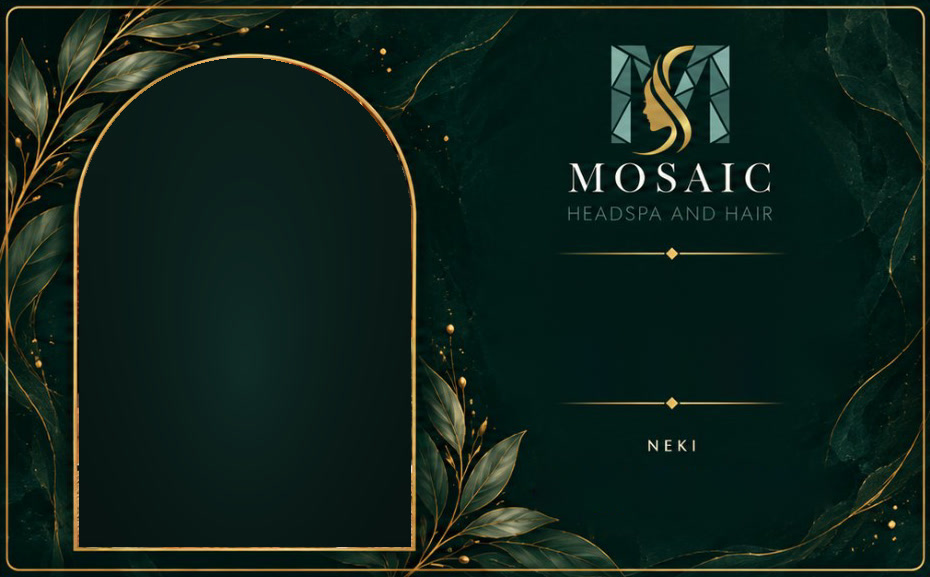
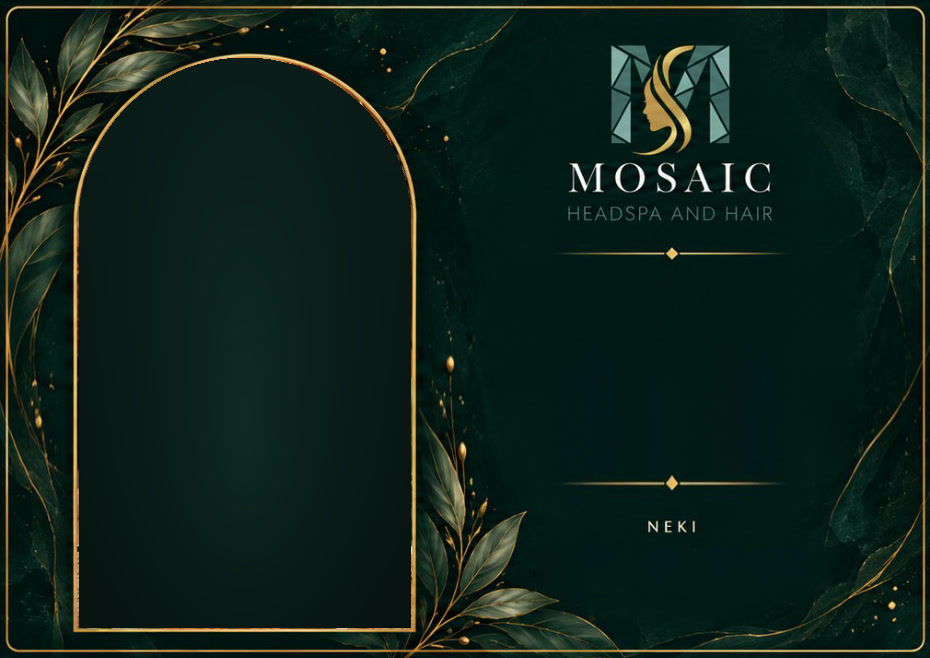
Ajandek: mind az uj harom kartya A5 keparanyu (uj grafika nelkul), kezelesenkent sajat felugro szoveg az eles arlistabol (kep + elemek), gombok a blokkokban, videoindito szoveg
- Smaragd 930x658, Szalag 939x664, Virag 934x660: csak az ures savok nyulnak, a logo / gyuru / feliratok nem torzulnak; a szovegdobozok az uj geometriara
- a Virag hatoldalan a hatterkepen levo ERTEKE felirat nem rajzolodik ujra
- felugro: egyeni = Relax, 4 Kezes, Paros - az eles arlista kartyai; a kezeles alapkepe; profi masszor
- gombok: Szemelyre szabott ajandekkartya / 2 perc... / Imadjak a nok blokkokban kozepen
- "Inditsd el a videot a kezelesrol!"
- tesztek (88), AJANDEK.md

diff --git a/assets/js/ajandek-adat.js b/assets/js/ajandek-adat.js
@@ -36,15 +36,13 @@
       pontosan: { ido: '50 perc Head Spa + 30 perc hajszárítás', fo: '1 vendég', kezelo: 'Tapasztalt, profi masszőr' },
       kezeles: {
         leiras: ['Személyre szabott hajápolási szeánsz mélyrelaxáló masszázs elemekkel: 50 perc Head Spa, utána 30 perc profi hajszárítás.'],
-        // a kezelés menete: az éles ajándékkártya-oldalak "Mit tartalmaz a 80 perces (50+30) kényeztetés?" listája (a kártyák "Hogyan épül fel a kezelés?" ablaka)
-        menet: [
-          ['Fejbőrkamerás diagnózis', 'Ezzel kezdünk, hogy a fejbőrtípusodhoz illő kezelést kapd.'],
-          ['Személyre szabott pakolás', 'Vegán OXYGENI pakolás a haj egészségéért.'],
-          ['Mélytisztító hajmosás', 'A híres körvízsugaras terápiával, az eredeti Head Spa arany zuhanyívvel.'],
-          ['Intenzív masszázs', 'Fej-, arc-, dekoltázs- és kézmasszázs profi masszőrökkel.'],
-          ['Gőzölés', 'Teljes ellazulás.'],
-          ['Hajszárítás (30 perc)', 'Befejezésként profi fodrászati beszárítás.']
-        ],
+        // a "Hogyan épül fel a kezelés?" felugró tartalma: az éles oldal árlistájának kezelés-kártyája (az egyéni = a "Relax" kezelés); a [szöveg, true] kiemelt elem
+        menet: {
+          nev: '50 perces MOSAIC "Relax" Head Spa kezelés',
+          bevezeto: 'Masszázs fókuszú kezelés, ami tartalmaz hajápolási elemeket is.',
+          elemek: [['Mélytisztító hajmosás'], ['Körvízsugaras terápia'], ['OXYGENI hajpakolás'], ['Fejmasszázs kézzel és eszközökkel'], ['Arctisztítás'], ['Arc tonizálás'], ['Arcmasszázs kézzel és választott eszközzel'], ['Nyak-, és vállmasszázs'], ['Dekoltázs masszázs'], ['Gőz terápia'], ['Fény terápia']],
+          utana: '+ 30 perc kímélő hajszárítás', ido: '50+30 perc'
+        },
         // a tulajdonos Meta-fiókjából ("Headspa szeptember 20_ natív kezelés.mp4"): a beégetett „szeptemberi akció" sáv és a záró kártya levágva (3:4, 0:55)
         video: { src: '/assets/video/ajandek-kezeles-egyeni.mp4?v=2', poster: '/assets/img/ajandek/kezeles-egyeni.jpg?v=2', ido: '0:55' }
       },
@@ -70,13 +68,12 @@
       pontosan: { ido: '50 perc 4 kezes Head Spa + 30 perc hajszárítás', fo: '1 vendég', kezelo: 'Két profi masszőr egyszerre, a végén profi fodrász szárít' },
       kezeles: {
         leiras: ['A MOSAIC saját találmánya: két profi masszőr dolgozik egyszerre, a végén egy profi fodrász szárít, vagyis hárman kényeztetnek 50+30 percen át.'],
-        menet: [
-          ['Személyre szabott pakolás', 'A fej- és arcbőrtípusodnak megfelelő, vegán és 100%-ban természetes OXYGENI pakolás.'],
-          ['Mélytisztító hajmosás', 'Körvízsugaras terápiával, az arany zuhanyívvel.'],
-          ['8 féle masszázs, két profi masszőrrel egyszerre', 'Fej-, arc-, nyak-, dekoltázs-, kar-, kéz-, láb- és vállmasszázs.'],
-          ['Gőzölés', 'Teljes ellazulás.'],
-          ['Hajszárítás (30 perc)', 'Plusz 30 perc: hajszárítás profi minőségben.']
-        ],
+        menet: {
+          nev: '50 perces MOSAIC "4 Kezes" Head Spa kezelés',
+          bevezeto: '',
+          elemek: [['Exkluzív, új szolgáltatás 2026 januártól'], ['A Headspa kezelések csúcsa'], ['2 profi masszőr kényeztet', true], ['8 féle masszázs', true], ['Profi, szalon szintű beszárítás'], ['Csak ajándékkártya készült']],
+          utana: '+ 30 perc kímélő hajszárítás', ido: '50+30 perc'
+        },
         // a Meta-fiók 4 kezes videóihoz nincs letölthető fájl; ez a "Hook1.MP4" (Ajándékkártya mappa) teljes hossza (39,5 s), feliratokkal; a ?v=2 a gyorsítótárat töri (a régi 7,8 s-os változat ott ragadt)
         video: { src: '/assets/video/ajandek-kezeles-4kezes.mp4?v=2', poster: '/assets/img/ajandek/kezeles-4kezes.jpg?v=2', ido: '0:40' }
       },
@@ -101,14 +98,12 @@
       pontosan: { ido: '50 perc Head Spa + 30 perc hajszárítás fejenként', fo: '2 vendég, egymás mellett', kezelo: 'Két profi masszőr, egyszerre' },
       kezeles: {
         leiras: ['Ketten fekszetek egymás mellé egy privát, csendes kezelőszobában, két profi masszőr kényeztet titeket egyszerre: közös élmény barátnővel, anyukával vagy a párral.'],
-        menet: [
-          ['Fejbőrkamerás diagnózis', 'Mindkettőtöknél ezzel kezdünk.'],
-          ['Személyre szabott pakolás', 'Vegán OXYGENI pakolás a haj egészségéért, egyénileg.'],
-          ['Mélytisztító hajmosás', 'A híres körvízsugaras terápiával.'],
-          ['Intenzív masszázs', 'Fej-, arc-, dekoltázs- és kézmasszázs profi masszőrökkel, egymás mellett.'],
-          ['Gőzölés', 'Teljes ellazulás.'],
-          ['Hajszárítás (30 perc)', 'Befejezésként profi fodrászati beszárítás fejenként.']
-        ],
+        menet: {
+          nev: '50 perces MOSAIC Páros Head Spa kezelés',
+          bevezeto: '',
+          elemek: [['Mélytisztító hajmosás'], ['Körvízsugaras terápia'], ['OXYGENI hajpakolás fejmasszázzsal'], ['Arctisztítás'], ['Arc radírozás', true], ['Arc tonizálás'], ['Arcmasszázs kézzel és választott eszközzel'], ['Méregtelenítő arcpakolás', true], ['Nyak-, és vállmasszázs'], ['Dekoltázs masszázs'], ['Gőz terápia'], ['Pezsgő alkoholos/alkohol mentes', true]],
+          utana: '+ 30 perc kímélő hajszárítás', ido: '50+30 perc'
+        },
         // a Meta-fiókból ("Szept páros HEADSPA 20_.mp4"): a beégetett „szeptemberi akció" sáv és a záró (akciós) kártya levágva (3:4, 0:29)
         video: { src: '/assets/video/ajandek-kezeles-paros.mp4?v=2', poster: '/assets/img/ajandek/kezeles-paros.jpg?v=2', ido: '0:29' }
       },

diff --git a/assets/js/ajandek-kartya.js b/assets/js/ajandek-kartya.js
@@ -16,7 +16,7 @@
 //     idezet: {x,y,w,h}, nevHely: {x,y,w,h} }
 // A fotohelyre kerulo kep a hatter FOLE kerul (a kulcs a keret: alak = iv | teglalap | kor | polaroid).
 //
-// KEPES dizajn (a tulajdonos altal feltoltott vegleges terv): a dizajnnak sajat koordinata-tere (w x h px) es ket HATTERKEPE van
+// KEPES dizajn (a tulajdonos altal feltoltott vegleges terv; MINDEN dizajn A5 fekvo, 210 x 148,5 mm = 1,414 : 1 - a hatterek a logot, a gyuruket es a feliratokat erintetlenul hagyo, csak az ures savokat nyujto atmeretezessel keszultek): a dizajnnak sajat koordinata-tere (w x h px) es ket HATTERKEPE van
 // (szovegmentes elolap + hatlap, a mintaszoveg es a mintafoto kiszedve). Az elolapon a fotohely (iv) a hatter FOLE kerul, az idezet es a
 // nev a dizajn "biztonsagos teruleten" belul marad (a levelek / a keret / a logo ele soha nem logik): a betumeret a szoveg hosszatol
 // fugg (lepcsok), a doboz overflow: hidden. A hatoldal szovegei (termek, ertek, kod, ervenyesseg) a hatterkep kiuresitett helyeire kerulnek.
@@ -45,36 +45,36 @@
   var TEMAK = [
     // Smaragd: a tulajdonos elso vegleges terve (930 x 577 px-es hatterkepek; a szovegek / a fotohely a kiuresitett helyeken)
     {
-      id: 'smaragd', nev: 'Smaragd', w: 930, h: 577,
+      id: 'smaragd', nev: 'Smaragd', w: 930, h: 658,
       hatter: { elol: '/assets/img/ajandek/kartya-smaragd-elol.jpg', hat: '/assets/img/ajandek/kartya-smaragd-hat.jpg' },
-      kep: { x: 81.5, y: 60.5, w: 326, h: 483, alak: 'iv' },
-      idezet: { x: 514, y: 266, w: 316, h: 123, lepcso: [[28, 33], [45, 30], [64, 23], [96, 20.5], [128, 18], [160, 16]] },
-      nevHely: { x: 532, y: 471, w: 280, h: 36, lepcso: [[16, 27], [24, 23], [32, 17.5], [40, 14]] },
-      hat: { termek: { x: 243, y: 143, w: 480, h: 84 }, ertek: { x: 285, y: 270, w: 400, h: 48 }, kod: { x: 264, y: 375, w: 440, h: 32 }, ervenyes: { x: 243, y: 452, w: 480, h: 30 } }
+      kep: { x: 81.5, y: 60.5, w: 326, h: 564, alak: 'iv' },
+      idezet: { x: 514, y: 266, w: 316, h: 196.6, lepcso: idezetLepcso(316, 196.6, 33) },
+      nevHely: { x: 532, y: 552, w: 280, h: 36, lepcso: nevLepcso(280, 36, 27) },
+      hat: { termek: { x: 243, y: 163.1, w: 480, h: 95.8 }, ertek: { x: 285, y: 307.9, w: 400, h: 54.7 }, kod: { x: 264, y: 427.6, w: 440, h: 36.5 }, ervenyes: { x: 243, y: 515.5, w: 480, h: 34.2 } }
     },
     // Szalag: pezsgőszínű, rózsaarany szalagokkal, kör alakú fotóablakkal (a tulajdonos 2. terve; 844 x 664 px-es háttérképek)
     {
-      id: 'szalag', nev: 'Szalag', w: 844, h: 664,
+      id: 'szalag', nev: 'Szalag', w: 939, h: 664,
       hatter: { elol: '/assets/img/ajandek/kartya-szalag-elol.jpg', hat: '/assets/img/ajandek/kartya-szalag-hat.jpg' },
       kep: { x: 42.2, y: 175.3, w: 322, h: 322, alak: 'kor', keret: false },
-      idezet: { x: 405, y: 285, w: 375, h: 145, lepcso: idezetLepcso(375, 145, 36) },
-      nevHely: { x: 415, y: 528, w: 320, h: 42, lepcso: nevLepcso(320, 42, 30) },
+      idezet: { x: 410.7, y: 285, w: 459.8, h: 145, lepcso: idezetLepcso(459.8, 145, 36) },
+      nevHely: { x: 422.9, y: 528, w: 392.4, h: 42, lepcso: nevLepcso(392.4, 42, 30) },
       szin: { idezet: '#442f16', nev: '#3a260d', termek: '#382711', ertek: '#694514', kod: '#3b260d', erv: '#4c3a20' },
       hat: {
-        termek: { x: 195, y: 262, w: 472, h: 90 }, ertek: { x: 402, y: 380, w: 200, h: 46, cimke: false }, kod: { x: 326, y: 480, w: 206, h: 34 }, ervenyes: { x: 270, y: 546, w: 322, h: 32 },
+        termek: { x: 216.9, y: 262, w: 525.1, h: 90 }, ertek: { x: 447.2, y: 380, w: 222.5, h: 46, cimke: false }, kod: { x: 362.7, y: 480, w: 229.2, h: 34 }, ervenyes: { x: 300.4, y: 546, w: 358.2, h: 32 },
         meret: { termek: [[25, 26], [30, 23], [200, 20]], ertek: 36, kod: [[10, 24], [18, 19], [26, 15], [60, 11]], erv: 19 }
       }
     },
     // Virág: rózsaszín, cseresznyevirágos, lekerekített téglalap fotóablakkal (a tulajdonos 3. terve; 934 x 592 px-es háttérképek)
     {
-      id: 'virag', nev: 'Virág', w: 934, h: 592,
+      id: 'virag', nev: 'Virág', w: 934, h: 660,
       hatter: { elol: '/assets/img/ajandek/kartya-virag-elol.jpg', hat: '/assets/img/ajandek/kartya-virag-hat.jpg' },
-      kep: { x: 75, y: 79, w: 296, h: 435, alak: 'sarok', sugar: 12, keret: false },
-      idezet: { x: 440, y: 318, w: 375, h: 112, lepcso: idezetLepcso(375, 112, 28) },
-      nevHely: { x: 450, y: 478, w: 355, h: 40, lepcso: nevLepcso(355, 40, 30) },
+      kep: { x: 75, y: 79, w: 296, h: 503, alak: 'sarok', sugar: 12, keret: false },
+      idezet: { x: 440, y: 321.5, w: 375, h: 175.6, lepcso: idezetLepcso(375, 175.6, 30) },
+      nevHely: { x: 450, y: 546, w: 355, h: 40, lepcso: nevLepcso(355, 40, 30) },
       szin: { idezet: '#9b6166', nev: '#96555c', termek: '#8f4c54', ertek: '#956a38', kod: '#914c53', erv: '#925c61' },
       hat: {
-        termek: { x: 200, y: 108, w: 552, h: 84 }, ertek: { x: 422, y: 255, w: 268, h: 52, cimke: false }, kod: { x: 349, y: 372, w: 262, h: 34 }, ervenyes: { x: 300, y: 462, w: 348, h: 32 },
+        termek: { x: 200, y: 120.4, w: 552, h: 93.6 }, ertek: { x: 422, y: 284.3, w: 330, h: 58, cimke: false }, kod: { x: 349, y: 414.7, w: 262, h: 37.9 }, ervenyes: { x: 300, y: 515.1, w: 348, h: 35.7 },
         meret: { termek: [[25, 28], [30, 25.5], [200, 22]], ertek: 50, kod: [[12, 30], [18, 24], [26, 18], [60, 13]], erv: 21 }
       }
     },

diff --git a/assets/css/ajandek.css b/assets/css/ajandek.css
@@ -1062,19 +1062,22 @@ body.ah { margin: 0; background: var(--ah-ivory); color: var(--ah-szoveg); font:
 .ah-kez-link .ah-ikon { width: 16px; height: 16px; flex: none; color: #c6a346; }
 .ah-kez-link .ah-ikon:last-child { width: 13px; height: 13px; }
 @media (min-width: 900px) and (max-width: 1279px) { .ah-lepesek { grid-template-columns: minmax(0, 1fr) minmax(380px, min(44%, 420px)); } }
-.ah-kez-ablak { width: min(560px, calc(100vw - 32px)); max-height: calc(100vh - 40px); margin: auto; padding: 24px 26px 22px; border: 0; border-radius: 18px; background: #fffdfa; color: var(--ah-szoveg, #243436); box-shadow: 0 24px 60px rgba(12, 24, 23, .35); overflow: auto; }
+.ah-kez-ablak { width: min(620px, calc(100vw - 32px)); max-height: calc(100vh - 40px); margin: auto; padding: 24px 26px 22px; border: 0; border-radius: 18px; background: #fffdfa; color: var(--ah-szoveg, #243436); box-shadow: 0 24px 60px rgba(12, 24, 23, .35); overflow: auto; }
 .ah-kez-ablak:not([open]) { display: none; }
 .ah-kez-ablak::backdrop { background: rgba(12, 24, 23, .55); }
 .ah-kez-ablak-fej { display: flex; align-items: flex-start; justify-content: space-between; gap: 14px; }
-.ah-kez-ablak-fej h3 { font-size: 26px; line-height: 1.15; }
+.ah-kez-ablak-fej h3 { font-size: 22px; line-height: 1.2; }
 .ah-kez-ablak-bezar { flex: none; width: 36px; height: 36px; border: 1px solid var(--ah-vonal); border-radius: 50%; background: #fff; color: var(--ah-petrol); font-size: 22px; line-height: 1; cursor: pointer; display: grid; place-items: center; padding: 0; }
 .ah-kez-ablak-bezar:hover { border-color: var(--ah-arany); }
-.ah-kez-ablak-osszegzes { margin: 6px 0 16px; font-size: 14.5px; color: var(--ah-halk); }
-.ah-kez-lepesek { list-style: none; margin: 0; padding: 0; display: grid; gap: 14px; counter-reset: kez; }
-.ah-kez-lepesek li { display: grid; grid-template-columns: 30px minmax(0, 1fr); gap: 14px; align-items: start; }
-.ah-kez-szam { width: 30px; height: 30px; border-radius: 50%; background: var(--ah-arany); color: #fff; display: grid; place-items: center; font-family: var(--ah-test); font-weight: 500; font-variant-numeric: lining-nums; font-size: 14px; line-height: 1; }
-.ah-kez-lepesek strong { display: block; font-family: var(--ah-cim); font-weight: 500; font-size: 18px; line-height: 1.2; color: var(--ah-petrol); }
-.ah-kez-lepesek li div span { display: block; margin-top: 2px; font-size: 14.5px; line-height: 1.45; color: #3f4f50; }
+.ah-kez-kep { display: block; width: 100%; height: 170px; object-fit: cover; border-radius: 12px; margin: 14px 0 14px; background: #e6dfd1; }
+.ah-kez-bevezeto { margin: 0 0 12px; font-weight: 500; font-size: 15px; line-height: 1.45; color: var(--ah-petrol); }
+.ah-kez-elemek { list-style: none; margin: 0; padding: 0; display: grid; grid-template-columns: repeat(2, minmax(0, 1fr)); gap: 8px 22px; }
+.ah-kez-elemek li { display: flex; align-items: flex-start; gap: 9px; font-size: 14.5px; line-height: 1.4; color: #3f4f50; }
+.ah-kez-elemek .ah-ikon { width: 16px; height: 16px; flex: none; margin-top: 2px; color: #c6a346; }
+.ah-kez-elemek .ah-kiemelt span { font-weight: 600; color: var(--ah-petrol); }
+.ah-kez-utana { margin: 16px 0 0; font-size: 14.5px; color: #3f4f50; }
+.ah-kez-ido { margin: 2px 0 0; font-size: 13.5px; color: var(--ah-halk); }
+@media (max-width: 559px) { .ah-kez-elemek { grid-template-columns: minmax(0, 1fr); } .ah-kez-kep { height: 140px; } }
 .ah-kez-ablak-lab { margin-top: 20px; display: flex; justify-content: center; }
 .ah-kez-ablak-lab .ah-gomb { min-width: 220px; }
 @media (max-width: 479px) { .ah-kez-ablak { padding: 20px 18px 18px; } .ah-kez-ablak-fej h3 { font-size: 22px; } }

diff --git a/foglalas/ajandek.html b/foglalas/ajandek.html
@@ -92,7 +92,7 @@
       </section>
 
       <section class="ah-lepes" aria-labelledby="ah-l2-cim">
-        <header class="ah-lepes-fej"><span class="ah-lepes-szam">2</span><div><h3 id="ah-l2-cim">Nézd meg, hogyan történik</h3><p>Les bele videón, milyen!</p></div></header>
+        <header class="ah-lepes-fej"><span class="ah-lepes-szam">2</span><div><h3 id="ah-l2-cim">Nézd meg, hogyan történik</h3><p>Indíts el a videót a kezelésről!</p></div></header>
         <div class="ah-video-doboz" id="ah-kiv-media"></div>
       </section>
 
@@ -157,6 +157,7 @@
         </ul>
         <button type="button" class="ah-kar-nyil ah-kar-kovetkezo" data-irany="1" aria-label="Következő videók"><span aria-hidden="true">›</span></button>
       </div>
+      <p class="ah-pontosan-cta"><a class="ah-gomb ah-gomb-fo" href="#ah-finder" data-gorgess="ah-finder"><span>Én is ilyen élményt ajándékozok</span><span class="ah-ikon" data-ikon="arrow" aria-hidden="true"></span></a></p>
     </div>
   </section>
 
@@ -224,6 +225,9 @@
         </ul>
       </div>
     </div>
+  <div class="ah-tartalom">
+      <p class="ah-pontosan-cta"><a class="ah-gomb ah-gomb-fo" href="#ah-finder" data-gorgess="ah-finder"><span>Összeállítom a saját kártyámat</span><span class="ah-ikon" data-ikon="arrow" aria-hidden="true"></span></a></p>
+    </div>
   </section>
 
   <!-- Miert MOSAIC + hol talalsz minket + galeria (lapozhato, nagyithato) -->
@@ -280,6 +284,7 @@
         <li><span class="ah-hogyan-ikon"><span class="ah-ikon" data-ikon="mail" aria-hidden="true"></span><b>4</b></span><strong>Átadod</strong><span>Kinyomtatod, továbbküldöd vagy a szalonban átveszed.</span></li>
         <li><span class="ah-hogyan-ikon"><span class="ah-ikon" data-ikon="calendar" aria-hidden="true"></span><b>5</b></span><strong>Ő beváltja</strong><span>Kuponkóddal időpontot foglal, 6 hónapon belül.</span></li>
       </ol>
+      <p class="ah-pontosan-cta"><a class="ah-gomb ah-gomb-fo" href="#ah-finder" data-gorgess="ah-finder"><span>Kezdem az ajándékozást</span><span class="ah-ikon" data-ikon="arrow" aria-hidden="true"></span></a></p>
     </div>
   </section>
 
@@ -340,8 +345,11 @@
     <h3 id="ah-kez-ablak-cim"></h3>
     <button type="button" class="ah-kez-ablak-bezar" id="ah-kez-bezar" aria-label="Bezárás"><span aria-hidden="true">×</span></button>
   </div>
-  <p class="ah-kez-ablak-osszegzes" id="ah-kez-osszegzes"></p>
-  <ol class="ah-kez-lepesek" id="ah-kez-lepesek"></ol>
+  <img class="ah-kez-kep" id="ah-kez-kep" alt="" width="1100" height="660" hidden>
+  <p class="ah-kez-bevezeto" id="ah-kez-bevezeto" hidden></p>
+  <ul class="ah-kez-elemek" id="ah-kez-elemek"></ul>
+  <p class="ah-kez-utana" id="ah-kez-utana"></p>
+  <p class="ah-kez-ido" id="ah-kez-ido"></p>
   <div class="ah-kez-ablak-lab"><button type="button" class="ah-gomb ah-gomb-fo" id="ah-kez-valaszt">Ezt választom</button></div>
 </dialog>
 <dialog class="ah-video-ablak" id="ah-video-ablak" aria-label="Vendég-videó">

diff --git a/assets/js/ajandek.js b/assets/js/ajandek.js
@@ -518,15 +518,19 @@
   var kezTermek = null, kezFokusz = null;
   function kezAblakNyit(id, forras) {
     var t = termek(id), abl = $('ah-kez-ablak');
-    if (!t || !abl) return;
+    var m = t && t.kezeles && t.kezeles.menet;
+    if (!t || !abl || !m) return;
     kezTermek = id; kezFokusz = forras || null;
-    $('ah-kez-ablak-cim').textContent = t.nev;
-    var p = t.pontosan || {};
-    $('ah-kez-osszegzes').textContent = [t.osszefoglalo, p.kezelo].filter(Boolean).join(' · ');
-    var lista = uresit($('ah-kez-lepesek'));
-    ((t.kezeles && t.kezeles.menet) || []).forEach(function (m, i) {
-      lista.appendChild(h('li', null, h('span', { class: 'ah-kez-szam', text: String(i + 1) }), h('div', null, h('strong', { text: m[0] }), h('span', { text: m[1] }))));
-    });
+    $('ah-kez-ablak-cim').textContent = m.nev;
+    // a kezelés alapképe (ugyanaz, mint a kártyán), hogy lássa, miről van szó
+    var kep = $('ah-kez-kep');
+    if (t.vizual && t.vizual.src) { kep.src = kepUt(t.vizual.src); kep.style.objectPosition = t.vizual.poz || '50% 50%'; kep.hidden = false; } else kep.hidden = true;
+    $('ah-kez-bevezeto').textContent = m.bevezeto || '';
+    $('ah-kez-bevezeto').hidden = !m.bevezeto;
+    var lista = uresit($('ah-kez-elemek'));
+    m.elemek.forEach(function (e) { lista.appendChild(h('li', e[1] ? { class: 'ah-kiemelt' } : null, ikonSpan('check'), h('span', { text: e[0] }))); });
+    $('ah-kez-utana').textContent = m.utana || '';
+    $('ah-kez-ido').textContent = m.ido ? 'Időtartam: ' + m.ido : '';
     if (abl.showModal) abl.showModal(); else abl.setAttribute('open', '');
     fokusz($('ah-kez-bezar'));
   }

diff --git a/AJANDEK.md b/AJANDEK.md
@@ -527,3 +527,14 @@ találtuk meg (2026-10-03), a helyi teszt addig nem fogta meg.
   kiürített helyre kerül. A fotóablak a háttér aranykeretén belül marad (a keretet a háttérkép adja). Az idézet és a név betűmérete a dobozból **számolt lépcsők** szerint csökken (`idezetLepcso`,
   `nevLepcso`), a szövegszínek a tervekből mérve (szalag: barna, virág: mályva). A mintaszöveg (az előnézeten) most pontosan olyan színű, mint a beírt szöveg (nem halvány): nem változik a színe,
   amikor elkezdi írni. A nyomtató oldalon a magasabb lapok is elférnek az A4 felén (a lap szélessége a félmagasságból számolódik, középre igazítva).
+- **A5 képarány (minden dizájn):** a Smaragd, a Szalag és a Virág háttérképei eredetileg 1,61 / 1,27 / 1,58 arányúak voltak; mostantól mind **A5 fekvő (1,414 : 1)**, új grafika nélkül: az üres sávokat
+  nyújtottam (nem az egész képet), így a logó, a fotóablak gyűrűje és az aprószövegek nem torzulnak. Smaragd 930 x 658: az elöl a két elválasztó közötti üres idézet-sáv nyúlik (az ív magasabb), a hátoldal
+  egyenletesen; Virág 934 x 660: az akvarell-csík sávja nyúlik (a fotóablak magasabb); Szalag 939 x 664: oldalra nyúlik, a gyűrű (x < 380) és a logó sorai védettek, alatta a szöveg-oszlop szélesedik.
+  A szövegdobozok a megfelelően áthelyezett koordinátákkal (a dobozok az átméretezett háttérre illesztve); a teszt minden dizájnra ellenőrzi az A5 arányt.
+- **„Hogyan épül fel a kezelés?” felugró (átdolgozva):** a három kezelés saját szövege az **éles oldal árlistájának kezelés-kártyájáról**: egyéni = „50 perces MOSAIC ‘Relax’ Head Spa kezelés” (masszázs fókuszú,
+  hajápolási elemekkel; 11 elem), „4 Kezes” (6 pont, kiemelve: 2 profi masszőr, 8 féle masszázs), Páros (12 elem, kiemelve: arc radírozás, méregtelenítő arcpakolás, pezsgő); mindegyiknél „+ 30 perc kímélő
+  hajszárítás”, „Időtartam: 50+30 perc”, felül a kezelés alapképe. (A „gyógymasszőr” itt is „profi masszőr”.)
+- **Gombok a blokkokban (középen):** „Személyre szabott ajándékkártya!” → „Összeállítom a saját kártyámat”; „2 perc és már a Tiéd is!” → „Kezdem az ajándékozást”; „Imádják a nők!” → „Én is ilyen élményt ajándékozok”
+  (mind a kiválasztóra görget). A 2. lépés alcíme: „Indíts el a videót a kezelésről!”.
+- **„Kihagyom a személyre szabást” → melyik kártya?** A *standard* MOSAIC-kártya (az eredeti, fekete-arany Canva-terv, `kartya-hatter.jpg`, A4 félbehajtva): rajta a megajándékozott neve (az „Ajándékozott neve” mező),
+  üzenet (ha nincs: az alap mondat „Miképp szeretetem Feléd árad…”), a kezelés neve, az érték, a kód és az érvényesség. Otthon nyomtatott kártyánál nincs külön üzenet-lépés a fizetés után (szalonban átvételnél van).
